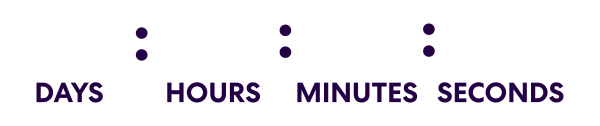
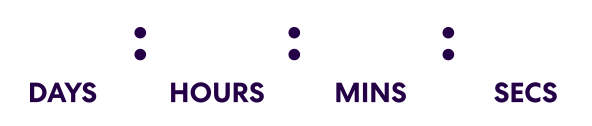
New font and background files

diff --git a/gif.php b/gif.php
@@ -1,5 +1,5 @@
 <?php
-
+	// EDIT "C:\inetpub\wwwroot\gif.php" for dev changes
 	//Leave all this stuff as it is
 	date_default_timezone_set('America/Los_Angeles');
 	include 'GIFEncoder.class.php';
@@ -20,9 +20,9 @@
 	$font = array(
 		'size' => 48, // Font size, in pts usually.
 		'angle' => 0, // Angle of the text
-		'x-offset' => 30, // The larger the number the further the distance from the left hand side, 0 to align to the left.
+		'x-offset' => 16, // The larger the number the further the distance from the left hand side, 0 to align to the left.
 		'y-offset' => 65, // The vertical alignment, trial and error between 20 and 60.
-		'file' => __DIR__ . DIRECTORY_SEPARATOR . 'CentraNo2-Book.woff', // Font path
+		'file' => __DIR__ . DIRECTORY_SEPARATOR . 'CentraNo2-Book-Monospace-Digits.woff', // Font path
 		'color' => imagecolorallocate($image, 0, 0, 0), // RGB Color of the text
 	);
 	for($i = 0; $i <= 60; $i++){
@@ -46,7 +46,7 @@
 			// Open the first source image and add the text.
 			$image = imagecreatefrompng($image_path);
 			;
-			$text = $interval->format('%D    %H    %I    %S');
+			$text = $interval->format('%D   %H   %I   %S');
 			imagettftext ($image , $font['size'] , $font['angle'] , $font['x-offset'] , $font['y-offset'] , $font['color'] , $font['file'], $text);
 			ob_start();
 			imagegif($image);

diff --git a/README.md b/README.md
@@ -21,4 +21,3 @@ This generates an image based on the following variables:
     'color'=>imagecolorallocate($image, 55, 160, 130), // RGB Colour of the text
   );
 ```
-
